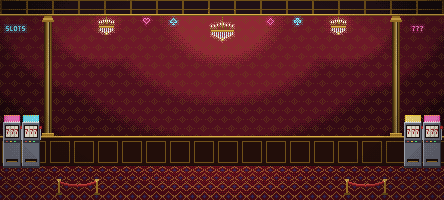
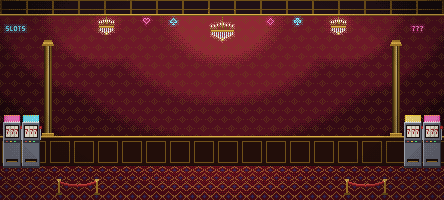
fix(ui): las reglas de Blackjack se leen sobre cualquier ambiente; el pilar del Casino ya no tapa «5-Card Charlie»

Changed region(s): [[0.8784, 0.06, 0.9077, 0.24], [0.0878, 0.06, 0.1171, 0.24]]

diff --git a/lib/ui/screens/blackjack_table_screen.dart b/lib/ui/screens/blackjack_table_screen.dart
@@ -347,13 +347,23 @@ class _BlackjackTableScreenState extends State<BlackjackTableScreen> with Ticker
       alignment: alignment,
       child: FittedBox(
         fit: BoxFit.scaleDown,
-        child: Text(
-          text,
-          style: TextStyle(
-            color: Colors.amber.withValues(alpha: 0.22),
-            fontSize: 9.5 * _s,
-            fontWeight: FontWeight.bold,
-            letterSpacing: 2.0,
+        // Dark band behind the rules so they stay readable over any scene (pillars, neon).
+        child: DecoratedBox(
+          decoration: BoxDecoration(
+            color: Colors.black.withValues(alpha: 0.38),
+            borderRadius: BorderRadius.circular(8 * _s),
+          ),
+          child: Padding(
+            padding: EdgeInsets.symmetric(horizontal: 8 * _s, vertical: 2 * _s),
+            child: Text(
+              text,
+              style: TextStyle(
+                color: Colors.amber.withValues(alpha: 0.5),
+                fontSize: 9.5 * _s,
+                fontWeight: FontWeight.bold,
+                letterSpacing: 2.0,
+              ),
+            ),
           ),
         ),
       ),

diff --git a/tool/pixelart/cantina.py b/tool/pixelart/cantina.py
@@ -1351,8 +1351,9 @@ def casino_table_scene(width):
     mahogany_wainscot(rail, flr, lamps)
     casino_carpet(flr, lamps)
     # gold columns framing the room, just inside the slot machines
-    gold_column(44, 8, ceil + 6, rail - 3, lamps)
-    gold_column(R(52), 8, ceil + 6, rail - 3, lamps)
+    # the columns start under the band where Blackjack prints its rules (y 31-40)
+    gold_column(44, 8, 46, rail - 3, lamps)
+    gold_column(R(52), 8, 46, rail - 3, lamps)
     # left: a bank of slot machines under a SLOTS sign
     neon_text('SLOTS', 6, 26, 'neon_c')
     slot_machine(3, flr + 2, 18, 46, 'neon_p')
